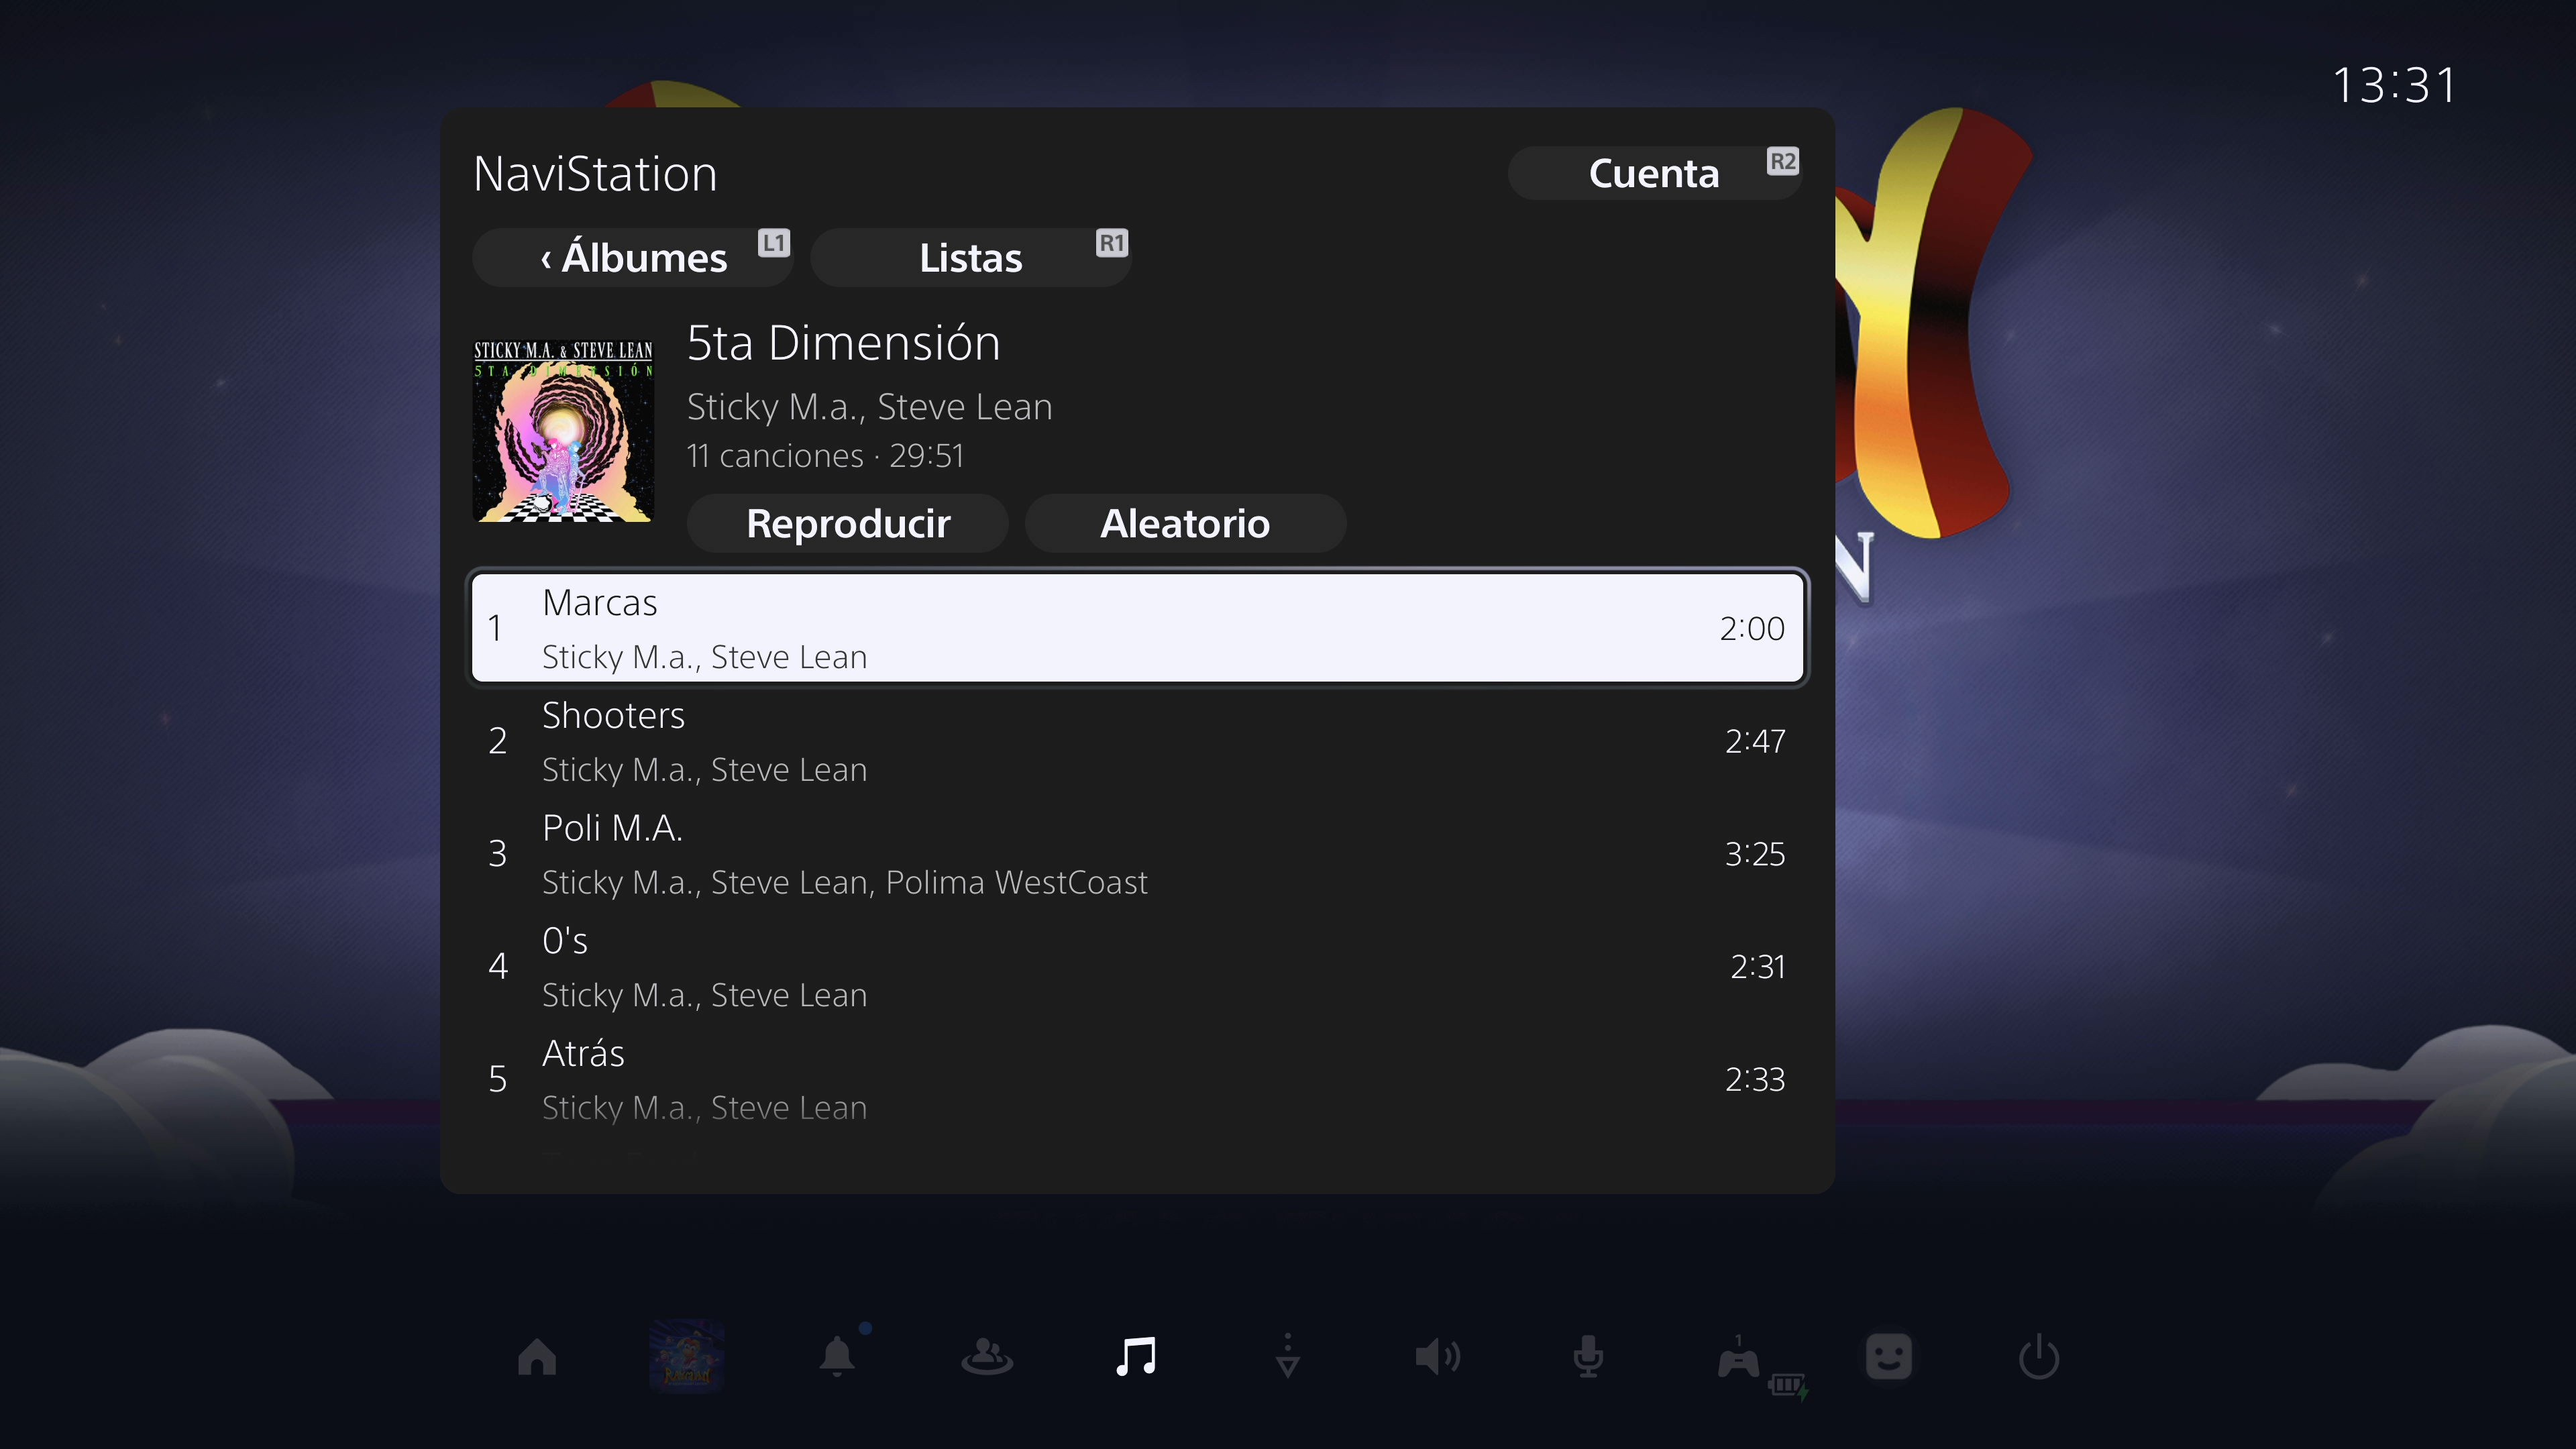
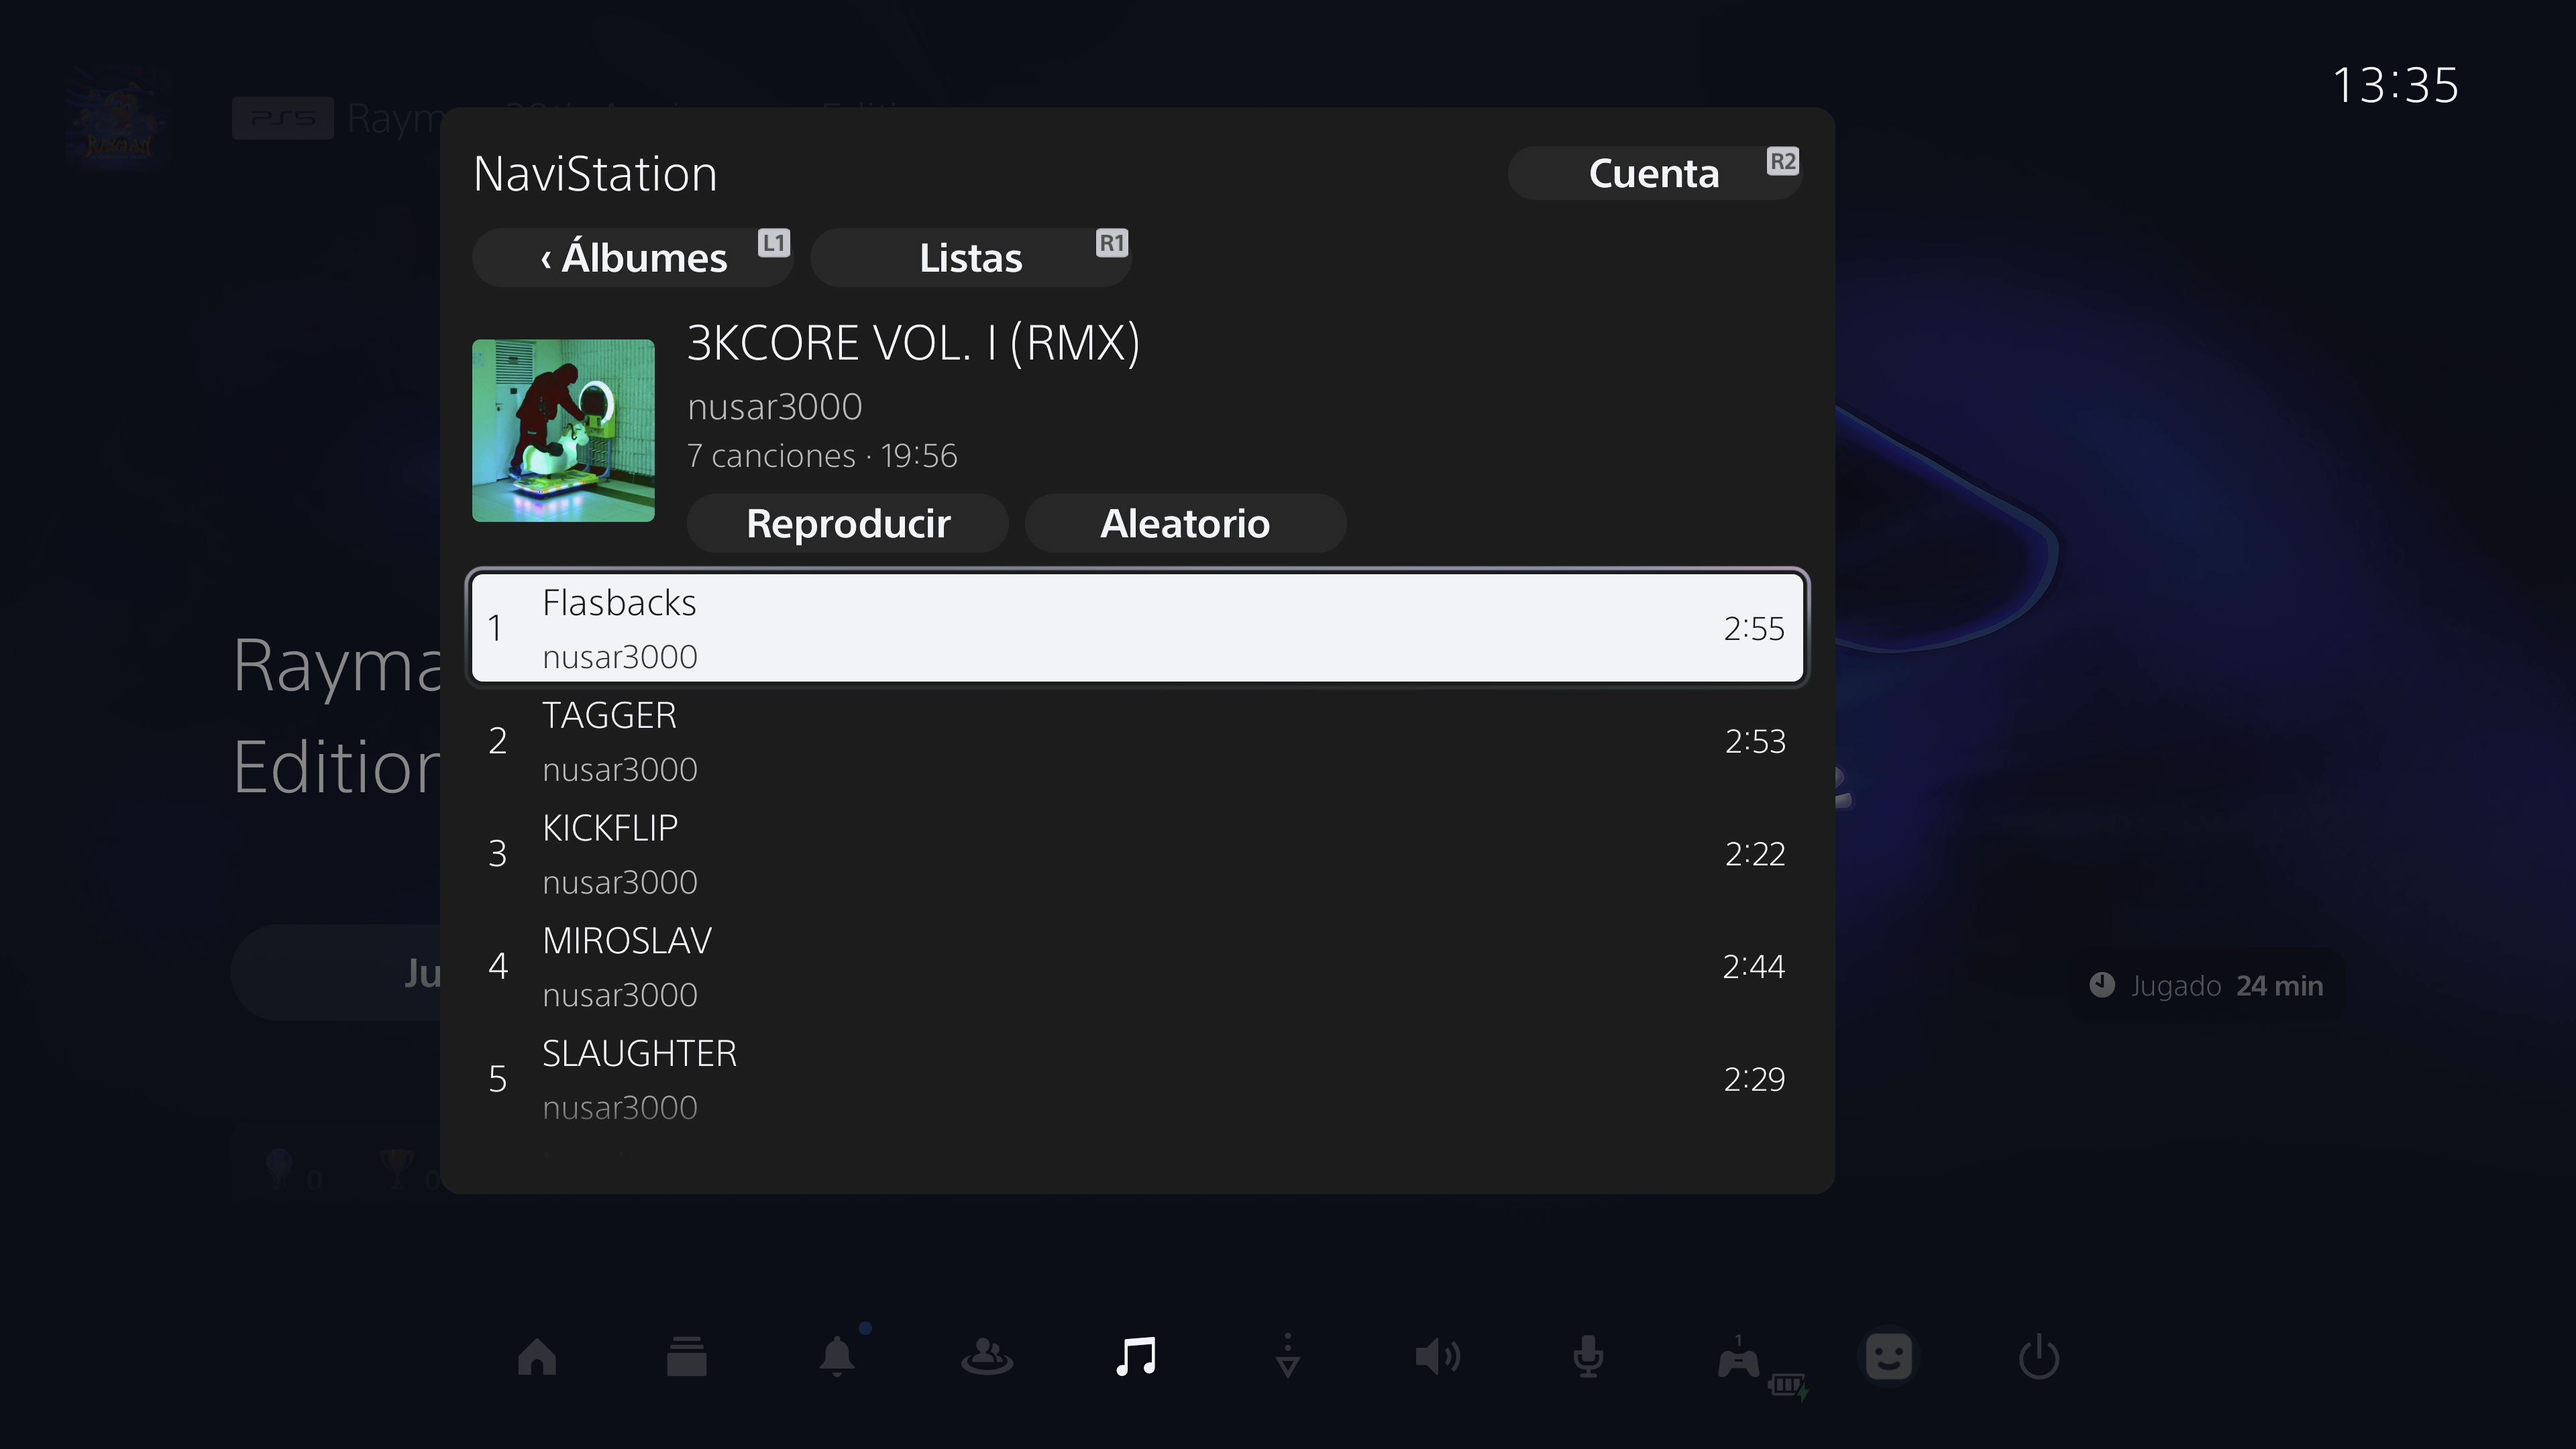
Refresh README with full-size PS5 screenshots

diff --git a/README.md b/README.md
@@ -22,13 +22,20 @@ whole collection. Navidrome supplies the song, artist and album names.
 
 ## Screenshots
 
+**Album library** — browse cover artwork from the PS5 Music card.
+
 ![NaviStation5 album library in the PS5 Music card](docs/images/albums.jpg)
 
-| Album details                                                       | Playback controls                                                    |
-| ------------------------------------------------------------------- | -------------------------------------------------------------------- |
-| ![Album tracks with Play and Shuffle](docs/images/album-detail.jpg) | ![Paused playback with the Resume control](docs/images/playback.jpg) |
+**Album details** — tracks, durations, Play and Shuffle.
 
-Captured on a PS5 running firmware 13.20.
+![Album tracks with Play and Shuffle](docs/images/album-detail.jpg)
+
+**Playback** — progress and native controller shortcuts.
+
+![Playing a song with Square to pause and Triangle to stop](docs/images/playback.jpg)
+
+Captured directly from a PS5 running firmware 13.20, with the Music card open
+over Home.
 
 ## Build
 
